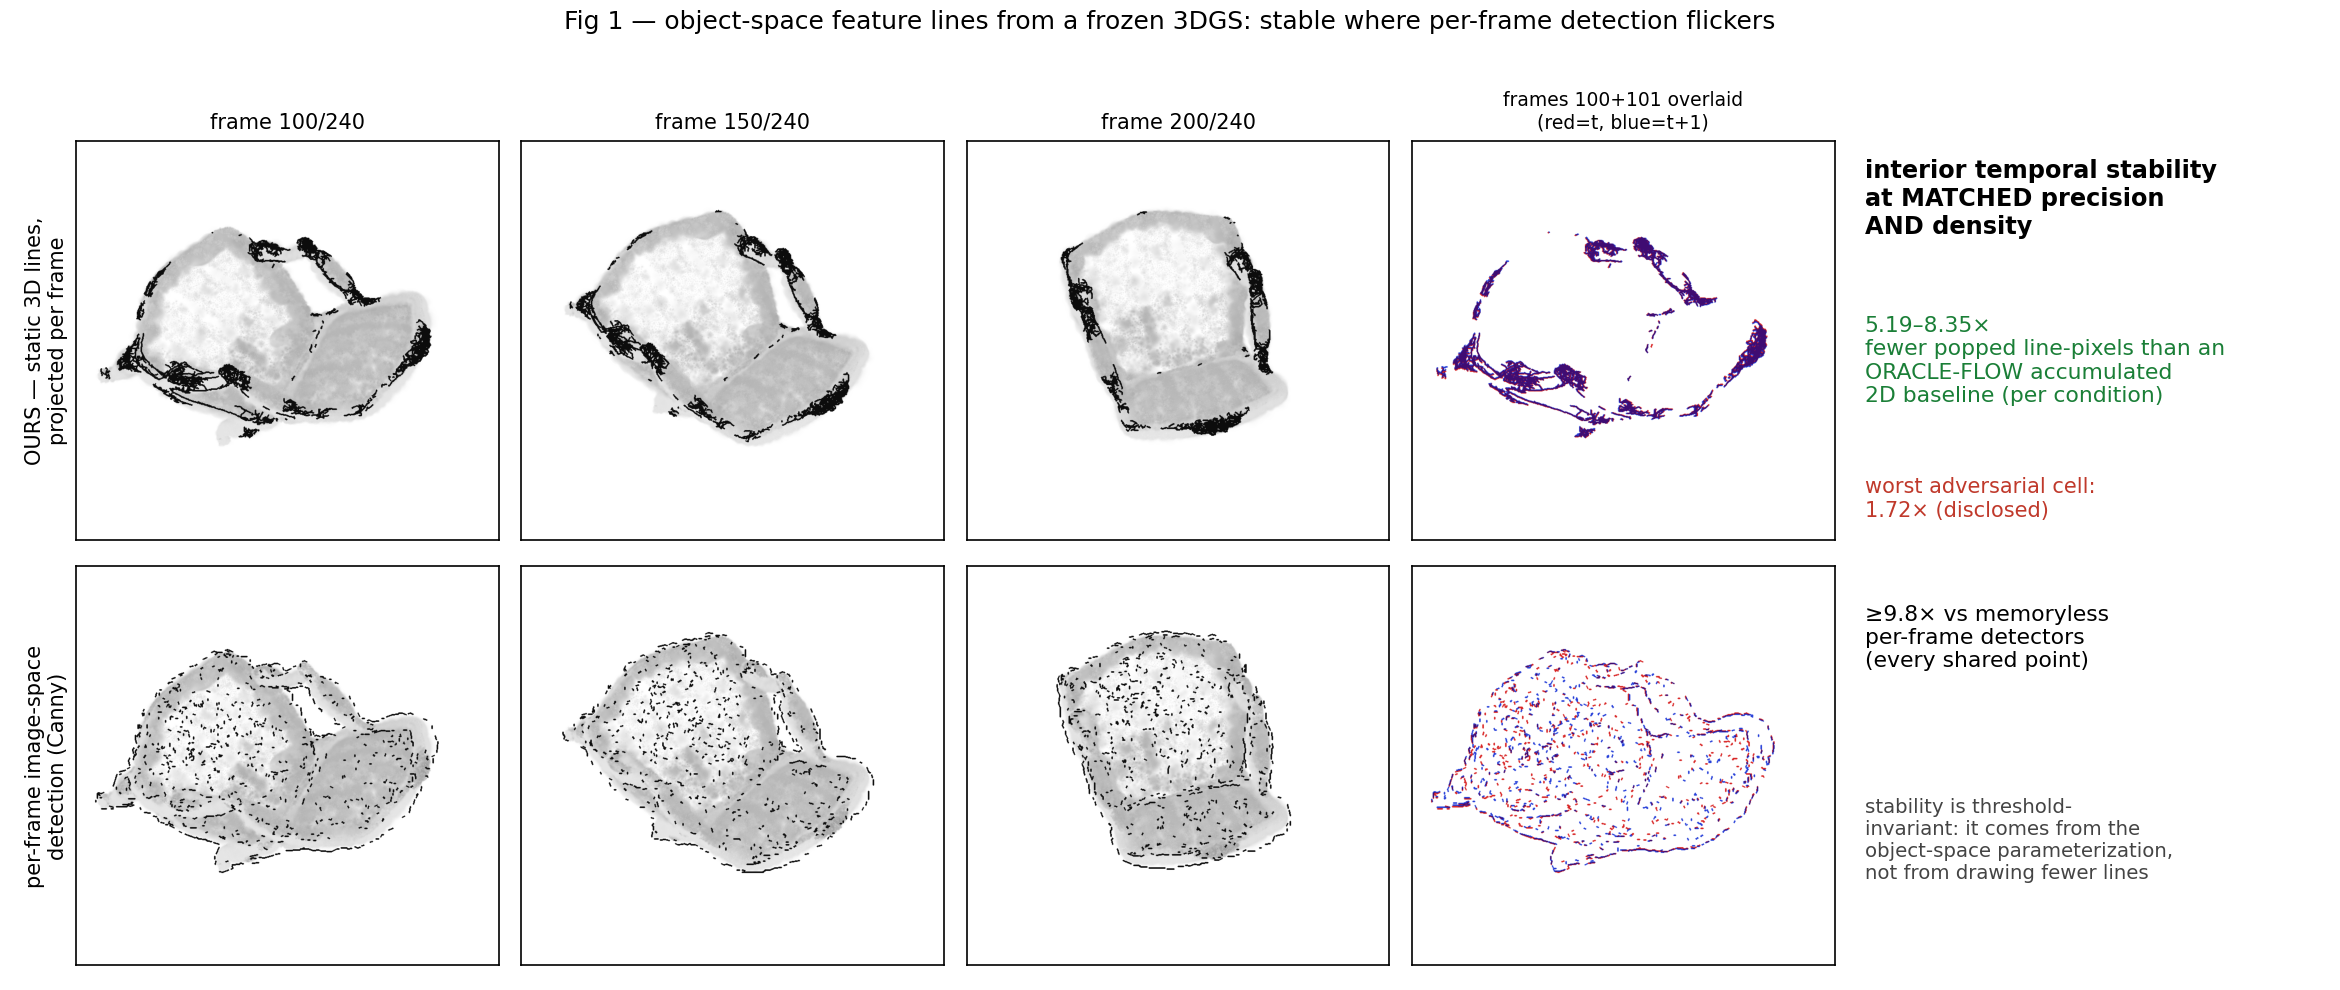
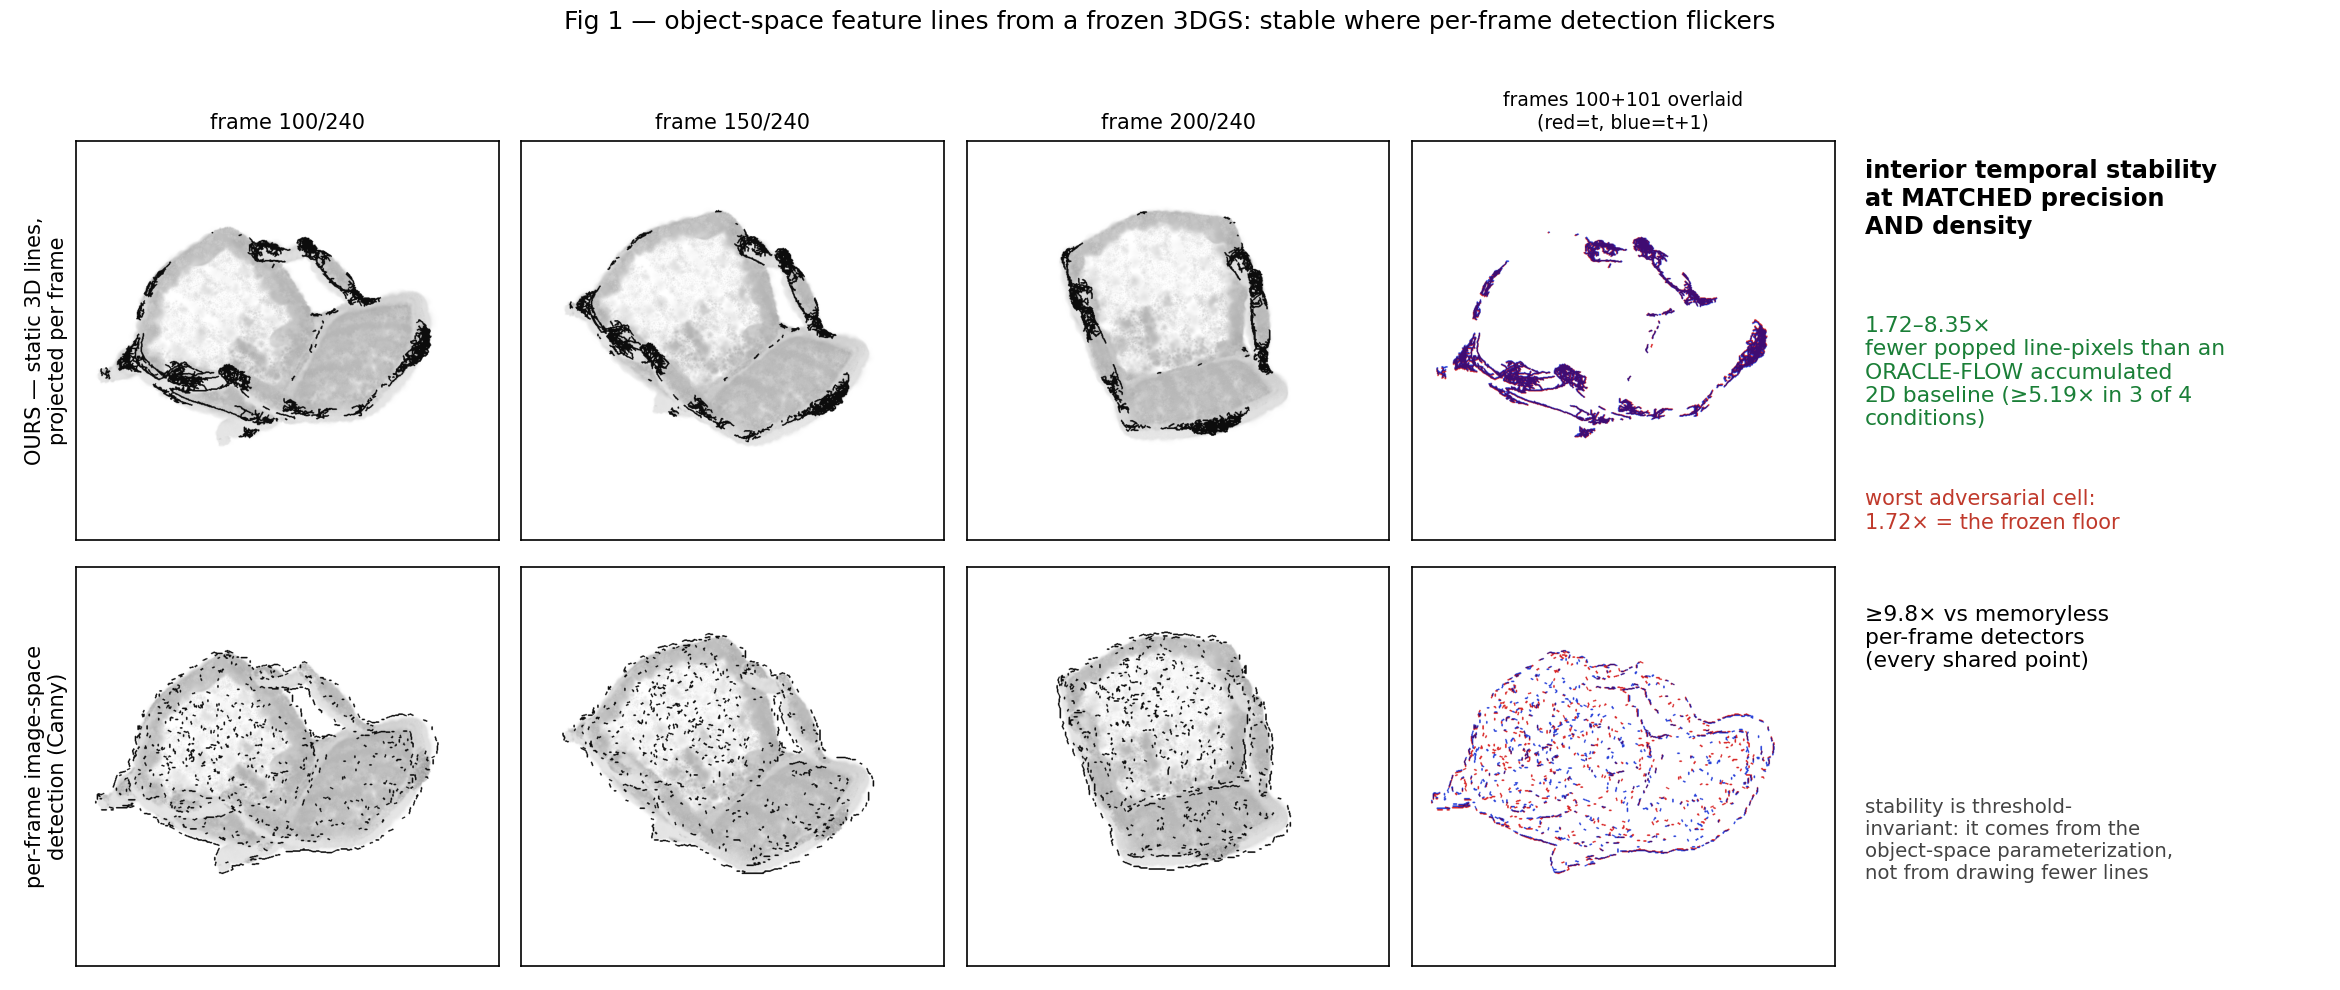
SEC6+SEC7 drafts (path-C): §6 Limitations (~540w, all 6 constraints ledger-exact incl disocc self-refutation 0.407>0.300, precision NOT solved 0.6371@0.72 gate, K_geom~0 GT-mesh 0.3964, ceiling 0.79/0.56) + §7 Conclusion (~330w). Both pass cold+adversarial gate GO. Load-bearing fix: 1.72-8.35x range

diff --git a/scripts/render_fig1_teaser.py b/scripts/render_fig1_teaser.py
@@ -103,10 +103,10 @@ ax.axis("off")
 ax.text(0.02, 0.95, "interior temporal stability\nat MATCHED precision\nAND density",
         fontsize=11.5, fontweight="bold", va="top", transform=ax.transAxes)
 ax.text(0.02, 0.56,
-        "5.19–8.35×\nfewer popped line-pixels than an\nORACLE-FLOW accumulated\n"
-        "2D baseline (per condition)",
+        "1.72–8.35×\nfewer popped line-pixels than an\nORACLE-FLOW accumulated\n"
+        "2D baseline (≥5.19× in 3 of 4\nconditions)",
         fontsize=10.5, va="top", transform=ax.transAxes, color="#1a7f37")
-ax.text(0.02, 0.16, "worst adversarial cell:\n1.72× (disclosed)",
+ax.text(0.02, 0.13, "worst adversarial cell:\n1.72× = the frozen floor",
         fontsize=10, va="top", transform=ax.transAxes, color="#c0392b")
 ax2 = axs[1, 4]
 ax2.axis("off")

diff --git a/out/SEC6_DRAFT.md b/out/SEC6_DRAFT.md
@@ -1,0 +1,52 @@
+# §6 — Limitations (DRAFT v1)
+*(All numbers from `RESULTS_MASTER.md`. Nothing here is softened; several of these limits
+were established by our own pre-registered gates coming back negative.)*
+
+**In-vitro scope.** Everything in this paper is measured on frozen 3DGS reconstructions of
+two static NeRF-synthetic scenes with known poses and rendered depth — an in-vitro
+geometric characterization, owned as such rather than patched. Every baseline shares the
+same perfect-geometry assumptions (the accumulated baseline is *given* our exact rigid
+flow), so the comparisons are internally fair, but n=2 synthetic scenes with perfect
+geometry is the breadth we have; real captures, estimated poses, and more scenes are
+future work, not implied results.
+
+**The selectivity evidence is single-scene.** The §5.1 demonstration that our pipeline
+actively suppresses texture edges — higher precision than its own seed edge field at
+matched density — holds on chair only. On lego, per-frame Canny is *more precise than our
+lines at every density we reach*; our advantage there is stability alone. Selectivity is
+demonstrated on the texture-bound scene and not contradicted on the geometry-dense one.
+The stability claim itself does not lean on this: §4.1's dominance rule compares stability
+only at operating points the baselines actually share on both precision and density, so
+§4's ratios survive on lego with no selectivity assumption at all.
+
+**The temporal advantage is interior-only, and reverses at disocclusions.** Decomposing
+the hardest cell (§4.4): the entire advantage is interior EMA-drift suppression — pop-rate
+0.0214 vs the oracle accumulator's 0.0425, **1.98×**, over the 93–97 % of line pixels away
+from occlusion boundaries — while inside disocclusion regions **our method is worse**
+(0.407 vs 0.300): visibility-culled chain runs split and their endpoints shift. Our
+pre-registered mechanism gate ("≥60 % of the accumulator's residual lies in disocclusion
+regions") came back **33.3 %**, a NO-GO, so we claim **no** disocclusion-correspondence
+mechanism for why 2D accumulation trails; the temporal bound is empirical.
+
+**Precision is not solved — it is supervision-bound.** The crease-vs-texture signal exists
+in frozen DINOv2 features (0.8401/0.9044 with mesh labels) but collapsed to **0.6371**
+under our best mesh-free supervision, through a pre-registered 0.72 gate (NO-GO). The one
+measured route forward — cross-scene transfer of a mesh-supervised probe — works in one
+direction of the two tested (0.8245 chair→lego, 0.5626 reverse). Any deployment needing
+crease-level precision on textured surfaces currently needs labeled scenes.
+
+**Geometry cannot rescue it (K_geom ≈ 0).** This is not an artifact of our reconstruction:
+even the **GT mesh's own dihedral scores AUC 0.3964** on crease-vs-decal, with
+normal-dispersion class medians 0.32° apart. On decal-like structure there is no geometric
+signal to find, for any method that seeds on geometry.
+
+**Coverage is ceiling-bound.** Re-ranking the frozen carrier caps recall at R@1.5 =
+**0.7908 (chair) / 0.5572 (lego)**; on lego **0.3663** of visible GT crease points have no
+carrier within 1.5 px at all (flat decals prominent among them). Our lines cannot draw
+what the carrier never represented, and §5.2 shows the recovery attempts we falsified.
+
+**Evaluation dependency.** GT supervision (crease labels, precision/recall scoring) comes
+from the mesh, confined to `mesh_oracle.py` and the eval scripts — the method path never
+imports it (AST-verified per phase). The flip side of this hygiene: our quantitative
+evaluation is only available where GT meshes exist, which is part of why the study is
+in-vitro.

diff --git a/out/SEC7_DRAFT.md b/out/SEC7_DRAFT.md
@@ -1,0 +1,33 @@
+# §7 — Conclusion (DRAFT v1)
+
+We set out to extract clean, temporally stable 3D feature lines from a frozen 3DGS, and we
+report exactly what that produced — two contributions, each scoped to what was measured.
+
+**A stability primitive.** Object-space feature lines whose rendered strokes are
+**1.72–8.35×** more temporally stable per condition than an oracle-flow temporally
+accumulated 2D baseline — **5.19× or better in three of four scene×trajectory conditions,
+with the 1.72× adversarial cell as the frozen conservative floor** — and ≥9.8× more stable
+than memoryless per-frame detection, at matched precision *and* matched line density. The
+stability is invariant to the acceptance threshold across the full sweep where measured,
+consistent with it being a property of the object-space parameterization rather than of
+line selection. The claim ships with its measured envelope: the advantage is interior
+(1.98×), reverses inside disocclusion regions, and is valid for frozen reconstructions of
+static scenes with known poses.
+
+**A boundary forensics.** The primitive's precision is *not* solved, and the four-act
+characterization of why is itself a contribution: coverage is capped by the frozen carrier
+(0.7908/0.5572); the missing creases carry no geometric signal even under the GT mesh
+(AUC 0.3964); the discriminating signal exists in frozen semantic features (0.8401/0.9044)
+— and collapses under mesh-free supervision through a pre-registered gate (0.6371 vs a
+0.72 bar), leaving cross-scene transfer (0.8245, one direction) as the tested route
+forward. Precision on textured surfaces is supervision-bound under our frozen protocol;
+we ship the boundary, measured, rather than a patch.
+
+Methodologically, every gate in this study was frozen before its numbers existed and
+evaluated on its letter; the unfavorable outcomes — including the two failed stability
+gates and the supervision-bound NO-GO — are reported with the same prominence as the
+favorable ones, because several of this paper's most useful sentences (the quantization
+floor, the disocclusion reversal, the oracle-baseline gap) exist only because a failed
+gate was dissected instead of defended. We believe the resulting object — a stability
+primitive with a measured boundary — is more useful to build on than either an
+undisclosed-limit system or an unmeasured negative.

diff --git a/out/CONTRIB_BOX.md b/out/CONTRIB_BOX.md
@@ -1,11 +1,12 @@
 **Contributions.**
 1. **A temporally stable line primitive for frozen 3DGS.** Object-space 3D feature lines
-   whose rendered strokes flicker **5.19–8.35× less** (popped line-pixels, per condition)
+   whose rendered strokes flicker **1.72–8.35× less** (popped line-pixels, per condition;
+   **≥5.19× in three of four conditions**)
    than even an **oracle-flow temporally-accumulated** 2D edge baseline, and ≥9.8× less
    than standard per-frame detectors. This is not stability-by-construction bought with
    sparsity or imprecision: every comparison is at **matched precision AND matched line
    density**, the oracle baseline is handed our exact rigid flow, and the stability is
-   threshold-invariant. The measured envelope ships with it: worst adversarial cell 1.72×,
+   threshold-invariant. The measured envelope ships with it: the 1.72× cell is the frozen conservative floor,
    and inside disocclusion regions the baseline is locally better — both disclosed.
 2. **A diagnostic that locates exactly what the primitive's precision needs.** The
    crease-vs-texture signal the pipeline is missing **exists** — frozen DINOv2 features

diff --git a/out/OUTLINE.md b/out/OUTLINE.md
@@ -2,8 +2,8 @@
 
 Framing (three-way reconciled, A-ANCHOR): the paper is anchored on the POSITIVE,
 deployable primitive — **Contribution A: interior temporal stability at matched precision
-AND density (5.19–8.35× per-condition vs an oracle-flow accumulated ceiling; ≥9.8× vs
-memoryless; threshold-invariant)** — with **Contribution B as the diagnostic BOUNDARY**
+AND density (1.72–8.35× per-condition vs an oracle-flow accumulated ceiling, ≥5.19× in 3 of 4
+conditions; ≥9.8× vs memoryless; threshold-invariant where measured)** — with **Contribution B as the diagnostic BOUNDARY**
 (why the primitive's precision is what it is: the ceiling arc, ending supervision-bound
 under our frozen protocol), and the **honesty protocol third**. Both self-disclosed
 regressions are the primitive's measured envelope and get dedicated figure real-estate
